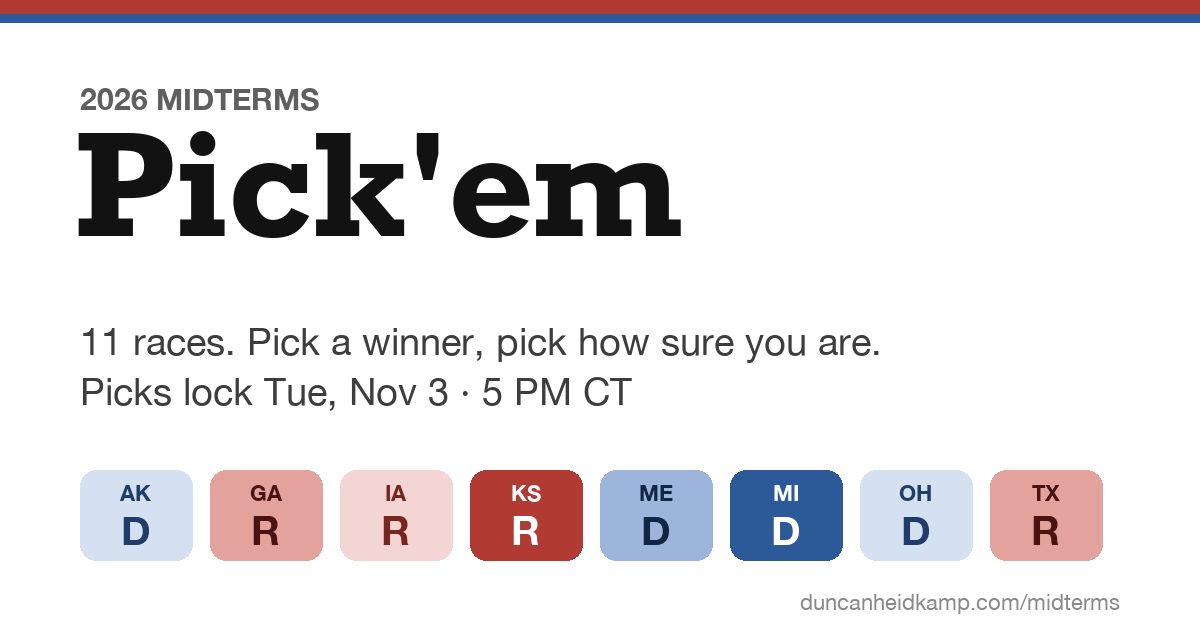
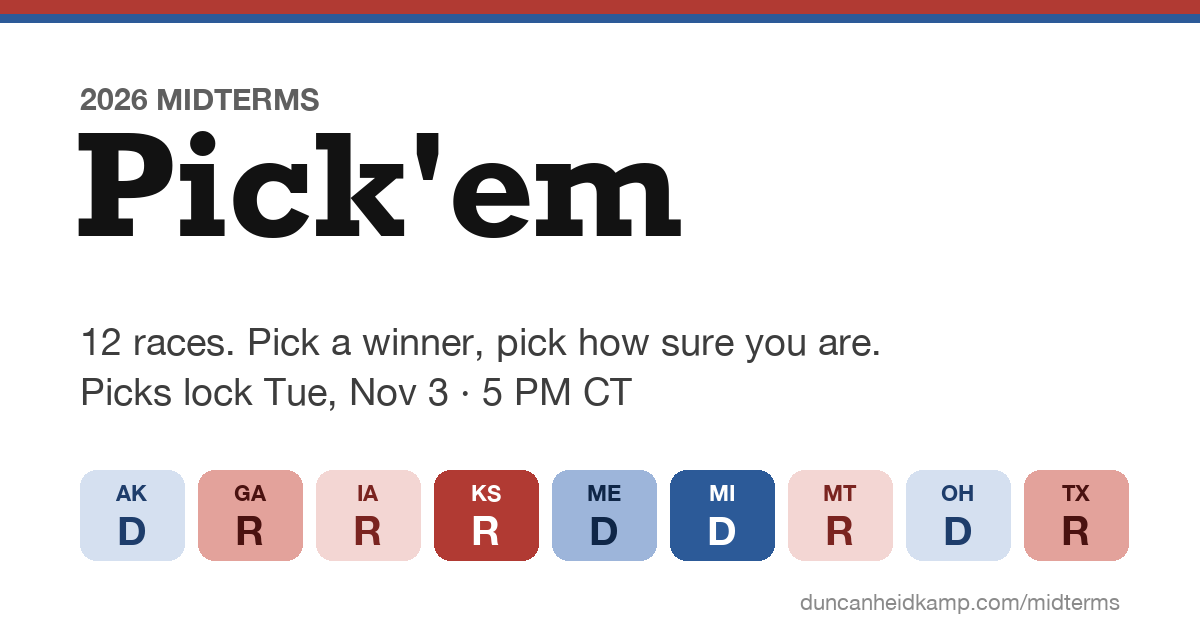
feat: add Montana Senate race (Alme R vs. Bodnar I)
- races.js: new mt-sen race; optional `dParty` relabels the non-R slot,
  plus a sideLabel() helper used by the picks card, grid, detail line,
  consensus, result badge, upset callout and admin buttons
- nate.js: mt-sen 0.066 (FLIPR Deluxe, Oct 30: Alme 93.4%, Bodnar 6.6%)
- shapes.js: Montana outline
- Copy and OG image updated to 12 races (og:image cache-busted with ?v=2)

Changed region(s): [[0.1542, 0.7238, 0.9558, 0.9048], [0.0925, 0.754, 0.1233, 0.8746], [0.0925, 0.5127, 0.1233, 0.5429]]

diff --git a/midterms/js/app.js b/midterms/js/app.js
@@ -9,7 +9,7 @@
 // view from S with template strings. Simple and plenty fast for 11 rows.
 // ============================================================
 
-import { RACES, CONFIDENCES, confidenceLabel, HOUSE_TOTAL, HOUSE_MAJORITY, HOUSE_R_MIN, HOUSE_R_MAX } from './races.js';
+import { RACES, CONFIDENCES, confidenceLabel, sideLabel, HOUSE_TOTAL, HOUSE_MAJORITY, HOUSE_R_MIN, HOUSE_R_MAX } from './races.js';
 import { NATE } from './nate.js';
 import { SHAPES } from './shapes.js';
 import { consensus, leaderboard, scoreNate, biggestUpset } from './scoring.js';
@@ -164,7 +164,7 @@ function raceCard(race) {
     const sel = p.side === side;
     return `<button type="button" class="cand ${side} ${sel ? 'sel' : ''}" data-act="side" data-race="${race.id}" data-side="${side}"
       aria-pressed="${sel}" ${locked ? 'disabled' : ''}>
-      <span class="tag">${side}</span><span class="nm">${esc(name)}</span></button>`;
+      <span class="tag">${sideLabel(race, side)}</span><span class="nm">${esc(name)}</span></button>`;
   };
   const confs = CONFIDENCES.map((c) => {
     const sel = p.side && p.confidence === c.value;
@@ -321,7 +321,7 @@ function leaderboardHtml(players, wins) {
     <div class="upset">
       <span class="k">Biggest upset</span>
       <span class="r">${esc(up.race.title)}</span>
-      <span class="t">The group went ${Math.max(up.nD, up.nR)}–${Math.min(up.nD, up.nR)} for ${up.majority}. ${up.winner} won.
+      <span class="t">The group went ${Math.max(up.nD, up.nR)}–${Math.min(up.nD, up.nR)} for ${sideLabel(up.race, up.majority)}. ${sideLabel(up.race, up.winner)} won.
         ${up.rightNames.length ? `${up.rightNames.map(esc).join(', ')} called it.` : 'Nobody called it.'}</span>
     </div>` : '';
 
@@ -372,12 +372,12 @@ function gridHtml(players, wins) {
       const dissent = !win && majority && pick.side !== majority;
       return `<td class="pc ${p.id === myId ? 'me' : ''}">
         <button class="chip ${pick.side}${level(pick.confidence)} ${win && !hit ? 'missed' : ''}" data-act="cell" data-who="${p.id}" data-race="${race.id}"
-          aria-label="${esc(p.name)}: ${pick.side} ${confidenceLabel(pick.confidence)}">${pick.side}${dissent ? '<span class="dissent"></span>' : ''}${hit ? `<span class="hit">${CHECK}</span>` : ''}</button></td>`;
+          aria-label="${esc(p.name)}: ${sideLabel(race, pick.side)} ${confidenceLabel(pick.confidence)}">${sideLabel(race, pick.side)}${dissent ? '<span class="dissent"></span>' : ''}${hit ? `<span class="hit">${CHECK}</span>` : ''}</button></td>`;
     }).join('');
 
     const total = nD + nR;
-    const grp = total === 0 ? '—' : majority ? `${Math.max(nD, nR)}–${Math.min(nD, nR)} ${majority}` : `${nD}–${nR} split`;
-    const res = !anyCalled ? '' : `<td class="res">${win ? `<span class="won ${win}">${win} won</span>` : `<span class="pending">${status === 'too_close' ? 'Too close' : 'Pending'}</span>`}</td>`;
+    const grp = total === 0 ? '—' : majority ? `${Math.max(nD, nR)}–${Math.min(nD, nR)} ${sideLabel(race, majority)}` : `${nD}–${nR} split`;
+    const res = !anyCalled ? '' : `<td class="res">${win ? `<span class="won ${win}">${sideLabel(race, win)} won</span>` : `<span class="pending">${status === 'too_close' ? 'Too close' : 'Pending'}</span>`}</td>`;
 
     return `
       <tr class="${split ? 'split' : ''}">
@@ -638,12 +638,12 @@ function showCell(who, raceId, el) {
   if (who === 'nate') {
     const n = nateCell(raceId);
     const name = n.side === 'D' ? race.d : race.r;
-    S.detail = `<b>Nate</b> · ${race.title}: ${esc(name)} (${n.side}) at ${(n.fav * 100).toFixed(1)}%`;
+    S.detail = `<b>Nate</b> · ${race.title}: ${esc(name)} (${sideLabel(race, n.side)}) at ${(n.fav * 100).toFixed(1)}%`;
   } else {
     const p = gridPlayers().find((x) => x.id === who);
     const pick = p.picks[raceId];
     const name = pick.side === 'D' ? race.d : race.r;
-    S.detail = `<b>${esc(p.name)}</b> · ${race.title}: ${esc(name)} (${pick.side}), ${confidenceLabel(pick.confidence)}`;
+    S.detail = `<b>${esc(p.name)}</b> · ${race.title}: ${esc(name)} (${sideLabel(race, pick.side)}), ${confidenceLabel(pick.confidence)}`;
   }
   document.getElementById('detail').innerHTML = S.detail;
 }

diff --git a/midterms/js/races.js b/midterms/js/races.js
@@ -1,5 +1,5 @@
 // ============================================================
-// races.js — the 11 races in the pick'em, in display order.
+// races.js — the races in the pick'em, in display order.
 //
 // This file is shared: the browser imports it directly, and the
 // API (api/midterms/[action].js) imports it too, so the server
@@ -19,7 +19,10 @@
  * @property {string} title   card heading
  * @property {string} note    small gray line under the heading
  * @property {string} r       Republican nominee
- * @property {string} d       Democratic nominee
+ * @property {string} d       Democratic nominee — or, when `dParty` is set, the
+ *                            main non-Republican candidate (e.g. an independent)
+ * @property {string} [dParty] letter to show for the `d` slot (default 'D').
+ *                            Picks for that slot are still stored as side 'D'.
  */
 
 /** @type {Race[]} */
@@ -31,6 +34,7 @@ export const RACES = [
   { id: 'ks-sen', st: 'KS', state: 'Kansas',   office: 'Sen', title: 'Kansas Senate',         note: 'Incumbent: Marshall',                  r: 'Roger Marshall',    d: 'Adam Hamilton' },
   { id: 'me-sen', st: 'ME', state: 'Maine',    office: 'Sen', title: 'Maine Senate',          note: 'Incumbent: Collins · ranked-choice',   r: 'Susan Collins',     d: 'Troy Jackson' },
   { id: 'mi-sen', st: 'MI', state: 'Michigan', office: 'Sen', title: 'Michigan Senate',       note: 'Open seat',                            r: 'Mike Rogers',       d: 'Abdul El-Sayed' },
+  { id: 'mt-sen', st: 'MT', state: 'Montana',  office: 'Sen', title: 'Montana Senate',        note: 'Independent vs. R · a Democrat is also on the ballot', r: 'Kurt Alme',         d: 'Seth Bodnar', dParty: 'I' },
   { id: 'oh-sen', st: 'OH', state: 'Ohio',     office: 'Sen', title: 'Ohio Senate (special)', note: 'Incumbent: Husted (appointed)', r: 'Jon Husted',        d: 'Sherrod Brown' },
   { id: 'oh-gov', st: 'OH', state: 'Ohio',     office: 'Gov', title: 'Ohio Governor',         note: 'Open seat',                            r: 'Vivek Ramaswamy',   d: 'Amy Acton' },
   { id: 'tx-sen', st: 'TX', state: 'Texas',    office: 'Sen', title: 'Texas Senate',          note: 'Open seat · Cornyn lost the primary',  r: 'Ken Paxton',        d: 'James Talarico' },
@@ -38,6 +42,14 @@ export const RACES = [
 ];
 
 export const RACE_IDS = RACES.map((r) => r.id);
+
+/**
+ * The letter to show for a side in a given race. Usually 'R'/'D', but a
+ * race can relabel its non-Republican slot (Montana: 'I' for Bodnar).
+ */
+export function sideLabel(race, side) {
+  return side === 'D' ? race.dParty || 'D' : 'R';
+}
 
 // Confidence levels. The DB stores the number; the UI shows the word.
 export const CONFIDENCES = [

diff --git a/midterms/js/admin.js b/midterms/js/admin.js
@@ -5,7 +5,7 @@
 // doesn't ask again; closing the tab forgets it.
 // ============================================================
 
-import { RACES } from './races.js';
+import { RACES, sideLabel } from './races.js';
 
 const root = document.getElementById('admin');
 const KEY = 'midterms.admin';
@@ -45,15 +45,16 @@ function renderLogin(error = '') {
 }
 
 function render() {
-  const OPTS = [['pending', 'Pending'], ['R', 'R won'], ['D', 'D won'], ['too_close', 'Too close']];
   const called = RACES.filter((r) => results[r.id] === 'R' || results[r.id] === 'D').length;
   root.innerHTML = `
     <p class="small"><b>${called} of ${RACES.length}</b> races called. ${esc(msg)}</p>
     ${RACES.map((r) => {
       const cur = results[r.id] || 'pending';
+      // The 'D' slot is labeled per race (Montana shows 'I won').
+      const OPTS = [['pending', 'Pending'], ['R', 'R won'], ['D', `${sideLabel(r, 'D')} won`], ['too_close', 'Too close']];
       return `
         <div class="admin-race">
-          <div><b>${esc(r.title)}</b><br><span>R ${esc(r.r)} · D ${esc(r.d)}</span></div>
+          <div><b>${esc(r.title)}</b><br><span>R ${esc(r.r)} · ${sideLabel(r, 'D')} ${esc(r.d)}</span></div>
           <div class="seg">${OPTS.map(([v, label]) => `<button type="button" class="${v} ${cur === v ? 'sel' : ''}" data-race="${r.id}" data-v="${v}">${label}</button>`).join('')}</div>
         </div>`;
     }).join('')}

diff --git a/midterms/index.html b/midterms/index.html
@@ -4,7 +4,7 @@
   <meta charset="UTF-8" />
   <meta name="viewport" content="width=device-width, initial-scale=1.0, viewport-fit=cover" />
   <title>2026 Midterms Pick'em</title>
-  <meta name="description" content="Pick a winner in 11 races and how sure you are. Picks lock Tuesday, Nov 3 at 5 PM CT." />
+  <meta name="description" content="Pick a winner in 12 races and how sure you are. Picks lock Tuesday, Nov 3 at 5 PM CT." />
   <meta name="theme-color" content="#ffffff" media="(prefers-color-scheme: light)" />
   <meta name="theme-color" content="#121212" media="(prefers-color-scheme: dark)" />
 
@@ -12,8 +12,8 @@
   <meta property="og:type" content="website" />
   <meta property="og:url" content="https://www.duncanheidkamp.com/midterms" />
   <meta property="og:title" content="2026 Midterms Pick'em" />
-  <meta property="og:description" content="11 races. Pick a winner, pick how sure you are. Locks Tue, Nov 3 at 5 PM CT." />
-  <meta property="og:image" content="https://www.duncanheidkamp.com/midterms/og.png" />
+  <meta property="og:description" content="12 races. Pick a winner, pick how sure you are. Locks Tue, Nov 3 at 5 PM CT." />
+  <meta property="og:image" content="https://www.duncanheidkamp.com/midterms/og.png?v=2" />
   <meta property="og:image:width" content="1200" />
   <meta property="og:image:height" content="630" />
   <meta name="twitter:card" content="summary_large_image" />

diff --git a/midterms/js/nate.js b/midterms/js/nate.js
@@ -2,7 +2,8 @@
 // nate.js — Nate Silver / Silver Bulletin base case.
 //
 // Hand-entered from the Silver Bulletin forecast. Each number is the
-// DEMOCRAT's win probability (0–1). To update on Tuesday afternoon:
+// DEMOCRAT's win probability (0–1) — or, for a race with `dParty` set in
+// races.js, the win probability of that non-Republican candidate. To update on Tuesday afternoon:
 //   1. Change the numbers below (and `asOf`).
 //   2. Commit + push — Vercel redeploys in ~30 seconds.
 // Set a race to null if there's no model number; the grid shows "—".
@@ -14,6 +15,7 @@ export const NATE = {
     'tx-sen': 0.737,
     'ak-sen': 0.595,
     'mi-sen': 0.832,
+    'mt-sen': 0.066, // Montana: chance for independent Seth Bodnar (the non-R slot)
     'me-sen': 0.704,
     'oh-sen': 0.712,
     'ks-sen': 0.612,

diff --git a/midterms/js/shapes.js b/midterms/js/shapes.js
@@ -7,6 +7,7 @@ export const SHAPES = {
   KS: 'M5 25 L80 25 L83 30 L88 33 L90 40 L95 45 L95 75 L5 75 Z',
   ME: 'M40 5 L50 2 L58 10 L65 30 L78 38 L90 45 L72 60 L60 70 L50 82 L40 95 L32 80 L30 55 L32 30 Z',
   MI: 'M10 25 L25 20 L40 22 L55 18 L65 25 L50 30 L35 33 L20 35 L10 32 Z M45 40 L55 35 L62 42 L65 55 L70 50 L75 58 L72 75 L65 90 L35 90 L32 75 L30 60 L35 48 Z',
+  MT: 'M8 22 L95 22 L95 78 L42 78 L40 70 L33 72 L30 64 L24 62 L22 52 L16 48 L18 40 L12 36 L10 28 Z',
   OH: 'M20 10 L45 15 L60 8 L80 5 L82 40 L78 60 L70 72 L60 80 L50 88 L40 85 L30 90 L20 82 Z',
   TX: 'M30 5 L48 5 L48 33 L62 37 L78 38 L92 40 L94 55 L96 66 L88 72 L72 82 L64 95 L56 96 L50 84 L44 74 L36 64 L26 60 L16 56 L5 44 L30 44 Z',
 };

diff --git a/index.html b/index.html
@@ -133,7 +133,7 @@
             <a class="project-title" href="/midterms">
               Midterms Pick'em <span class="arrow">→</span>
             </a>
-            <p class="project-desc">Call 11 races of the 2026 midterms with friends, then see everyone's picks side by side.</p>
+            <p class="project-desc">Call 12 races of the 2026 midterms with friends, then see everyone's picks side by side.</p>
           </div>
         </li>
 

diff --git a/api/midterms/[action].js b/api/midterms/[action].js
@@ -61,7 +61,7 @@ function cleanPin(raw) {
   return pin;
 }
 
-/** Validate a full entry: all 11 races + the House tiebreaker. */
+/** Validate a full entry: every race + the House tiebreaker. */
 function cleanEntry(body) {
   const picks = body.picks || {};
   const rows = [];

diff --git a/README.md b/README.md
@@ -41,7 +41,7 @@ The homepage alone still works by opening `index.html` directly.
 
 ## 2026 Midterms Pick'em (`/midterms`)
 
-Friends pick a winner and a confidence (Lean 60% / Likely 75% / Safe 90%) in 11 races, plus a House-seat tiebreaker. Submitting unlocks a grid of everyone's picks. Picks lock **Tue Nov 3, 2026 at 5:00 PM CT**, and the server enforces it.
+Friends pick a winner and a confidence (Lean 60% / Likely 75% / Safe 90%) in 12 races (11 two-party races plus Montana, an independent vs. a Republican), plus a House-seat tiebreaker. Submitting unlocks a grid of everyone's picks. Picks lock **Tue Nov 3, 2026 at 5:00 PM CT**, and the server enforces it.
 
 | Path | What it is |
 |---|---|
